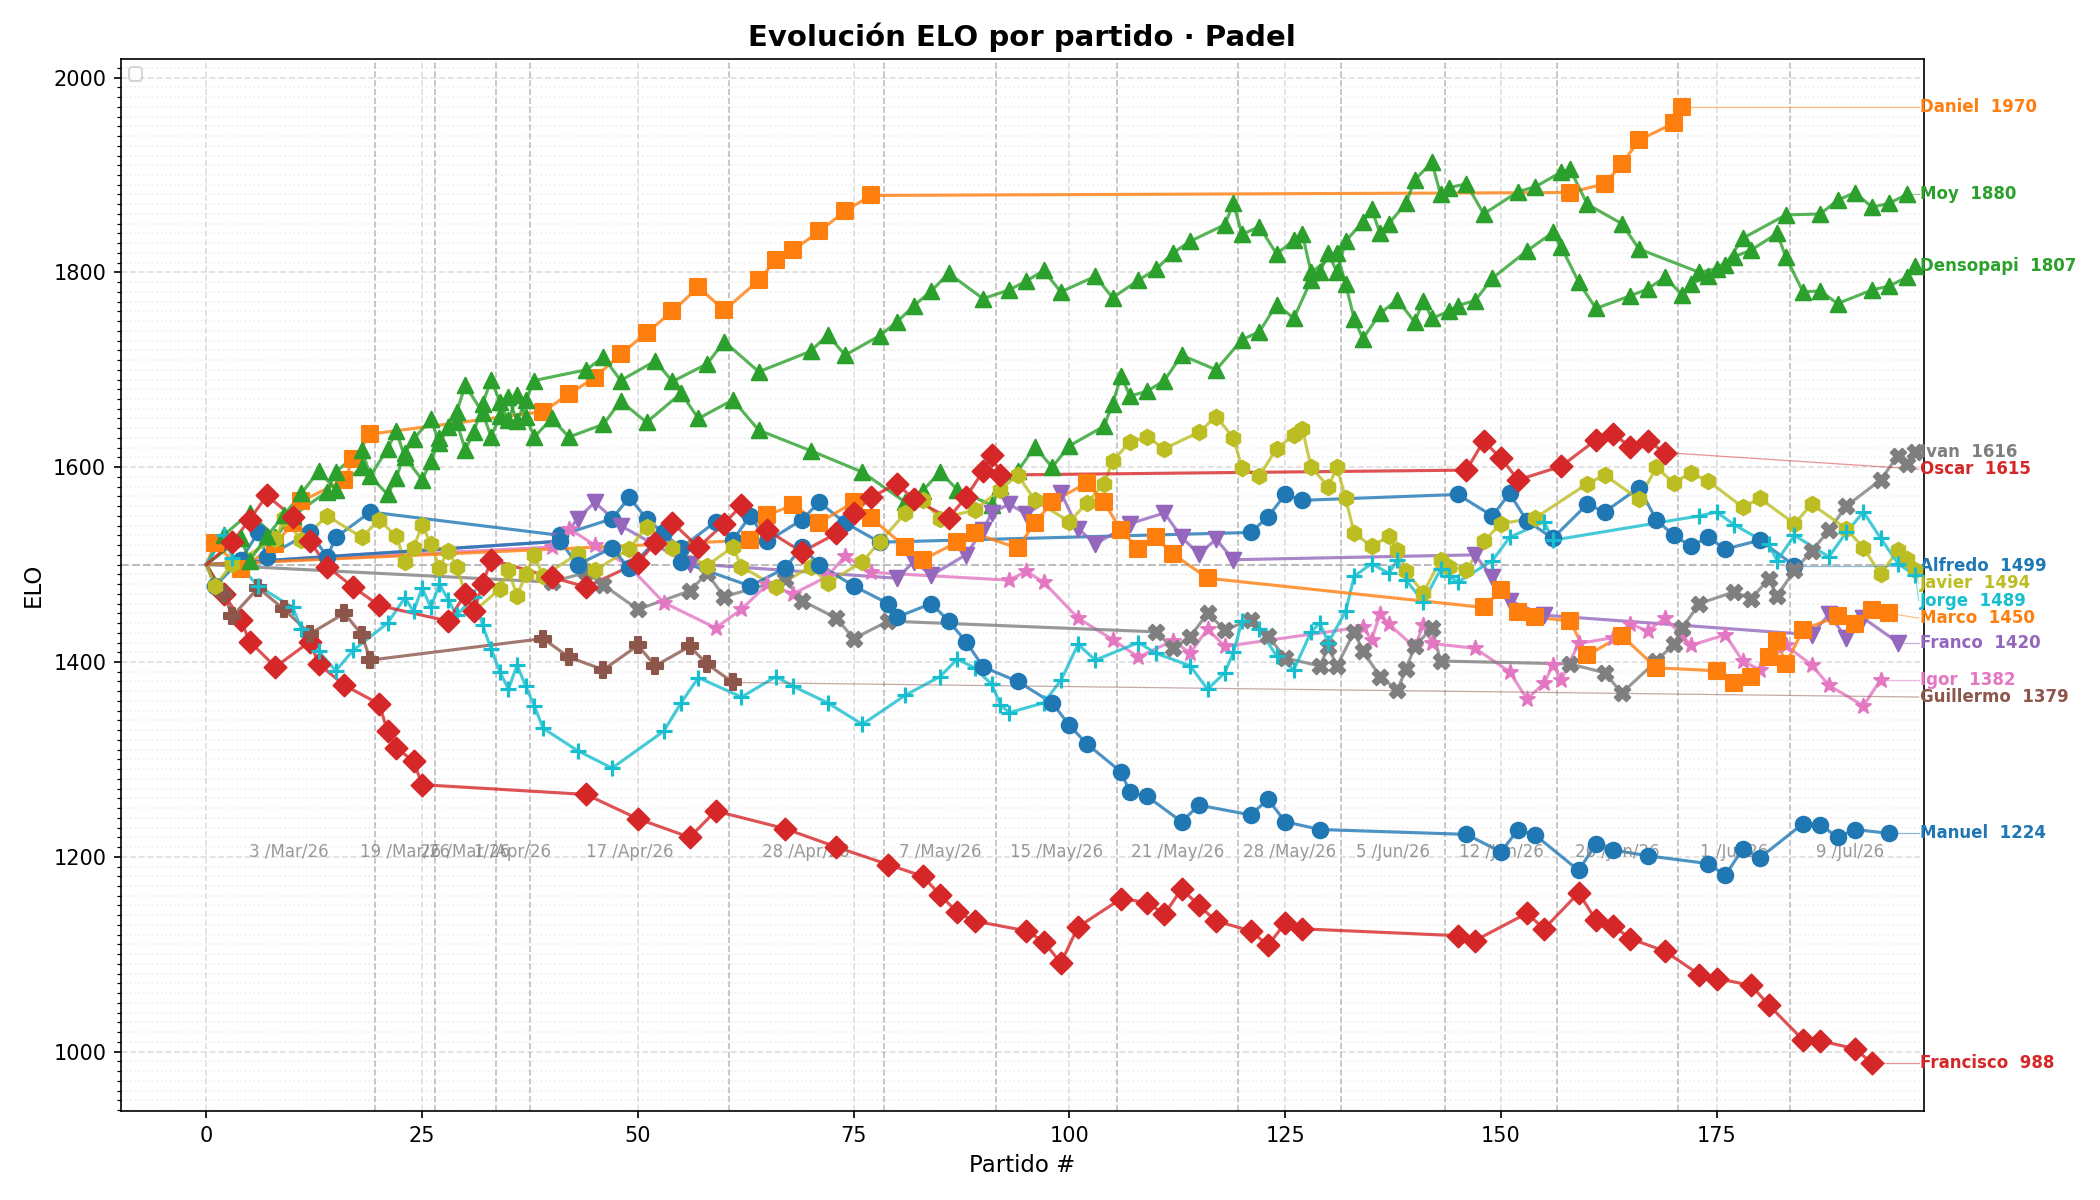
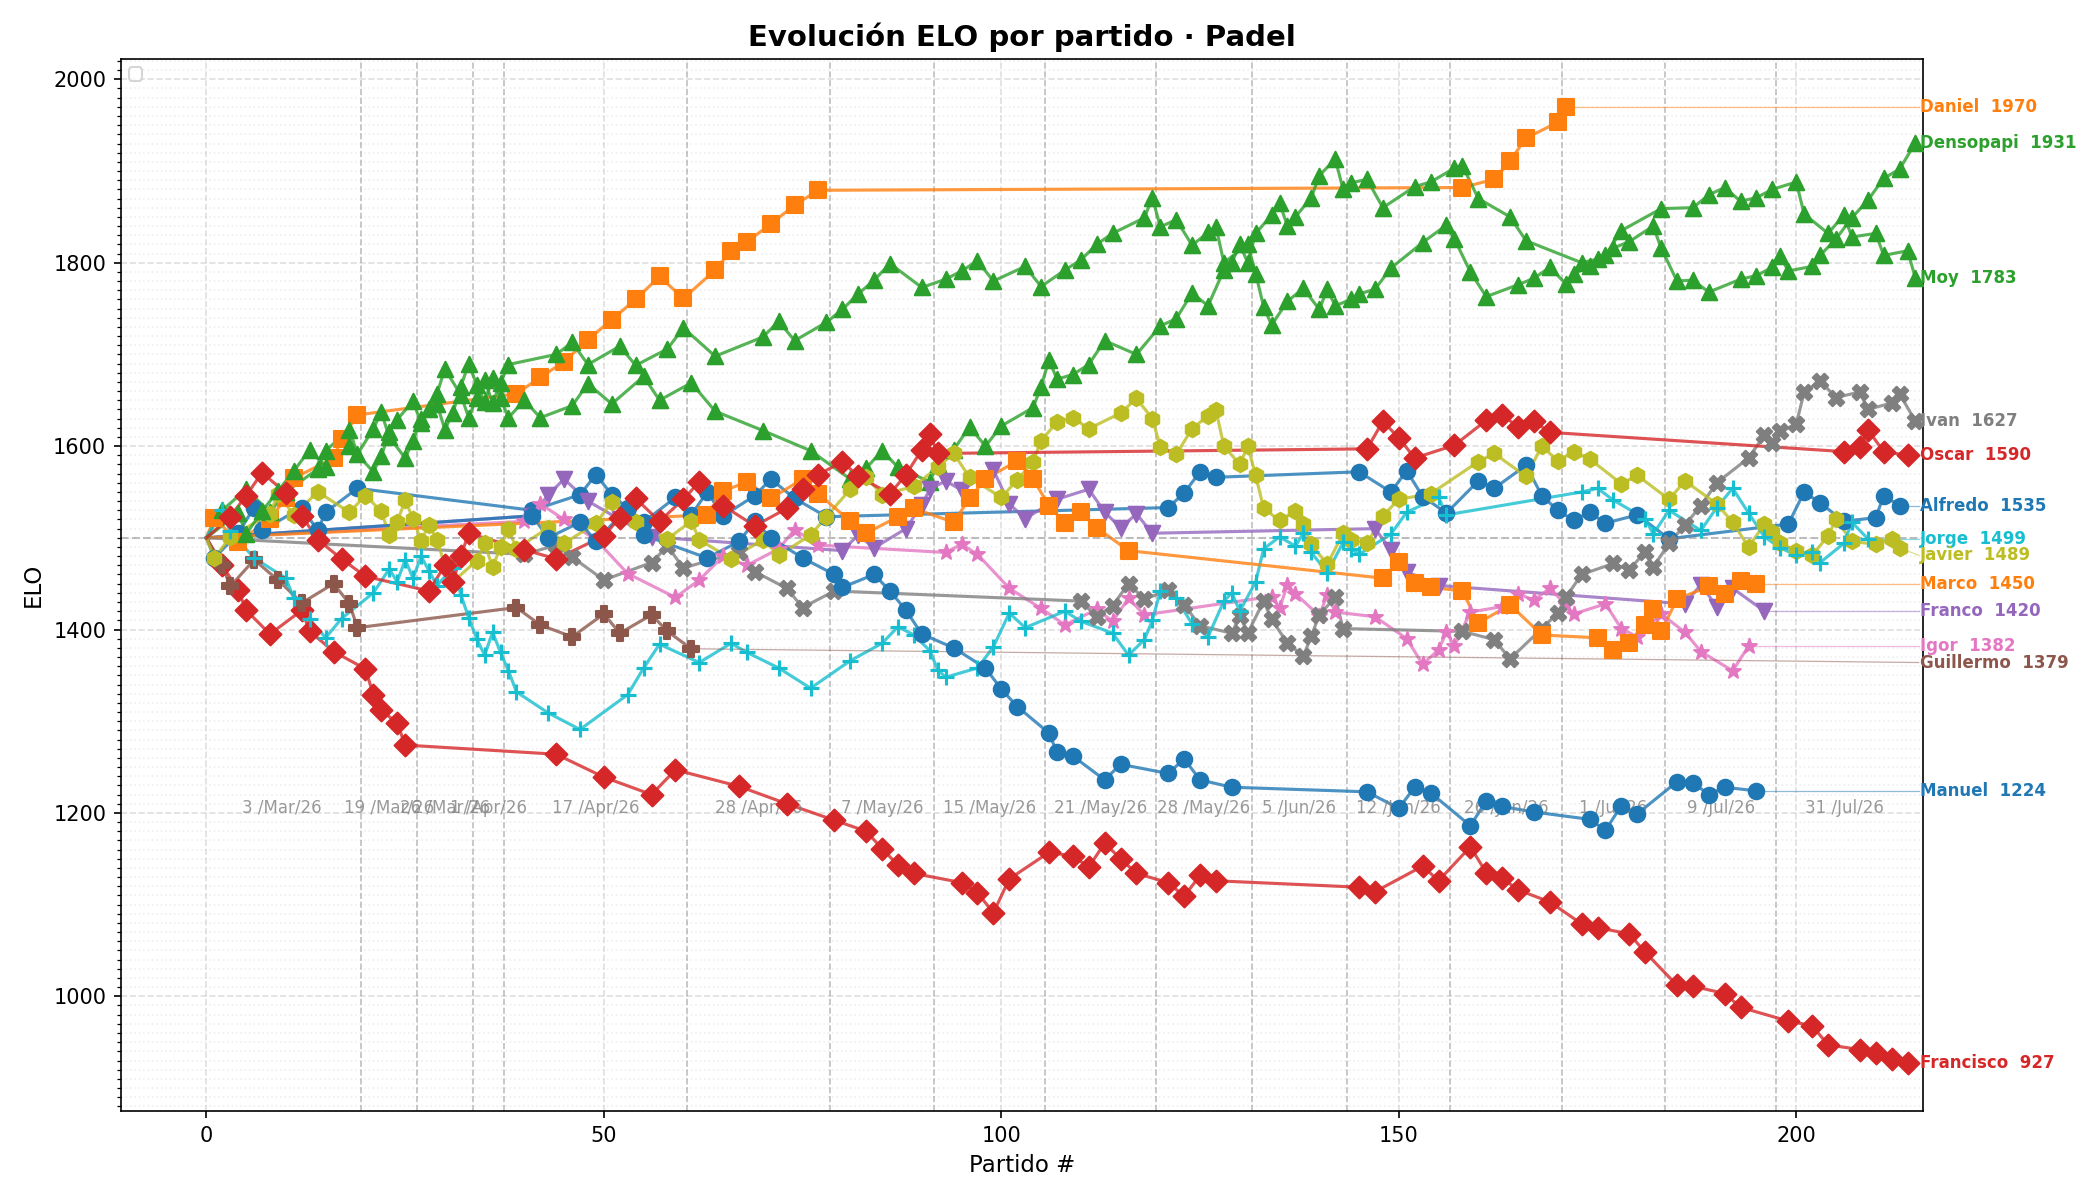
update

diff --git a/padel_elo.py b/padel_elo.py
@@ -230,7 +230,24 @@ MATCHES_CSV = """Fecha,Ronda,Pista,Equipo 1,Equipo 2,Marcador
 9 /Jul/26,6,1,Densopapi / Moy,Marco / Manuel,6 - 0
 9 /Jul/26,6,2,Javier / Ivan,Jorge / Franco,6 - 0
 9 /Jul/26,7,2,Densopapi / Moy,Javier / Ivan,6 - 2
-9 /Jul/26,8,2,Densopapi / Ivan,Jorge / Javier,6 - 2"""
+9 /Jul/26,8,2,Densopapi / Ivan,Jorge / Javier,6 - 2
+31 /Jul/26,1,1,Densopapi / Chayito,Jose / Alfredo,2 - 3
+31 /Jul/26,1,2,Moy / Ivan,Javier / Jorge,3 - 2
+31 /Jul/26,2,1,Moy / Jose,Ivan / Alfredo,1 - 4
+31 /Jul/26,2,2,Densopapi / Jorge,Chayito / Javier,4 - 1
+31 /Jul/26,3,1,Densopapi / Ivan,Jorge / Alfredo,4 - 1
+31 /Jul/26,3,2,Chayito / Moy,Javier / Jose,1 - 4
+31 /Jul/26,4,1,Densopapi / Javier,Ivan / Jose,3 - 2
+31 /Jul/26,4,2,Alfredo / Oscar,Moy / Jorge,1 - 4
+31 /Jul/26,5,1,Densopapi / Jorge,Javier / Moy,3 - 2
+31 /Jul/26,5,2,Oscar / Ivan,Chayito / Jose,5 - 0
+31 /Jul/26,6,1,Densopapi / Oscar,Jorge / Ivan,5 - 0
+31 /Jul/26,6,2,Chayito / Javier,Alfredo / Moy,1 - 4
+31 /Jul/26,7,1,Moy / Oscar,Alfredo / Densopapi,2 - 3
+31 /Jul/26,7,2,Chayito / Jose,Ivan / Javier,0 - 5
+31 /Jul/26,8,1,Javier / Alfredo,Ivan / Densopapi,1 - 4
+31 /Jul/26,8,2,Jose / Moy,Oscar / Chayito,3 - 2
+31 /Jul/26,9,1,Jose / Densopapi,Ivan / Moy,4 - 1"""
 
 
 def normalize_name(name: str) -> str:

diff --git a/README.md b/README.md
@@ -100,7 +100,7 @@ Tabla global con ELO total, victorias, derrotas, porcentaje de victorias, partid
 
 Una gráfica de líneas con la evolución del ELO de cada jugador sesión a sesión, guardada automáticamente en el directorio del proyecto.
 
-![Ejemplo de gráfica ELO](elo_evolution.png?v=13)
+![Ejemplo de gráfica ELO](elo_evolution.png?v=14)
 
 ---
 
@@ -401,6 +401,27 @@ Los resultados de los partidos están registrados en el siguiente spreadsheet:
 | 13 | Roy | 1377 |
 | 14 | Manuel | 1224 |
 | 15 | Francisco | 988 |
+
+### 31/Jul/26
+
+| # | Jugador | ELO |
+|---|---------|-----|
+| 🥇 | Daniel | 1970 |
+| 🥈 | Densopapi | 1931 |
+| 🥉 | Moy | 1783 |
+| 4 | Ivan | 1627 |
+| 5 | Oscar | 1590 |
+| 6 | Alfredo | 1535 |
+| 7 | Jose | 1505 |
+| 8 | Jorge | 1499 |
+| 9 | Javier | 1489 |
+| 10 | Marco | 1450 |
+| 11 | Franco | 1420 |
+| 12 | Igor | 1382 |
+| 13 | Guillermo | 1379 |
+| 14 | Roy | 1377 |
+| 15 | Manuel | 1224 |
+| 16 | Francisco | 927 |
 
 ---
 
